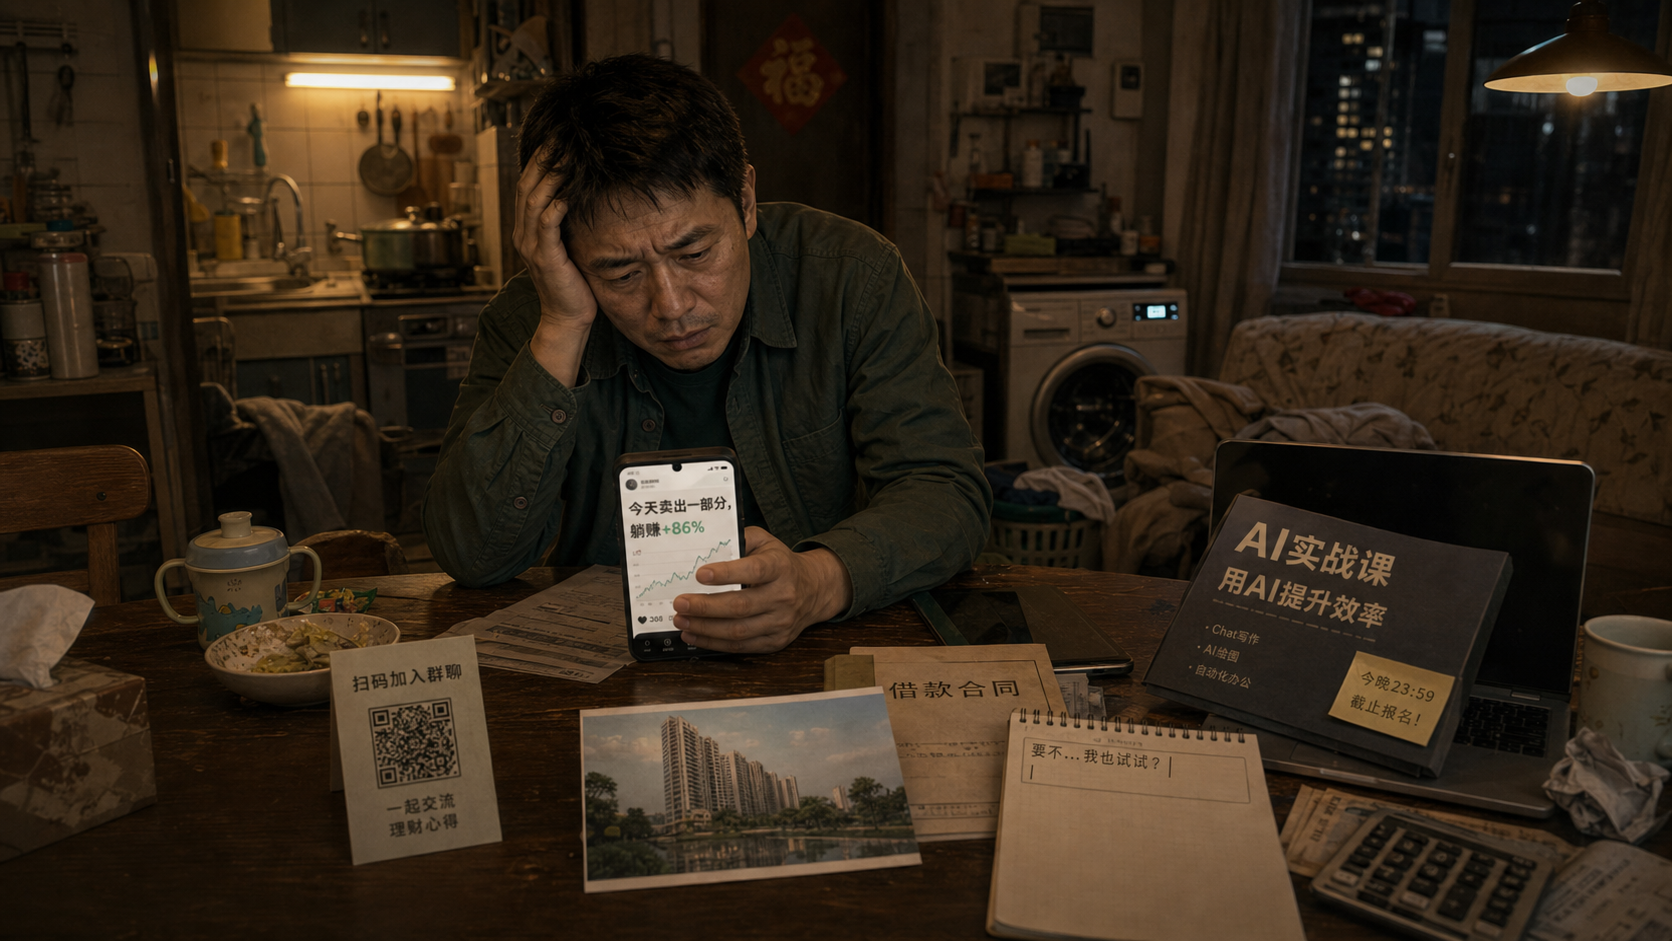
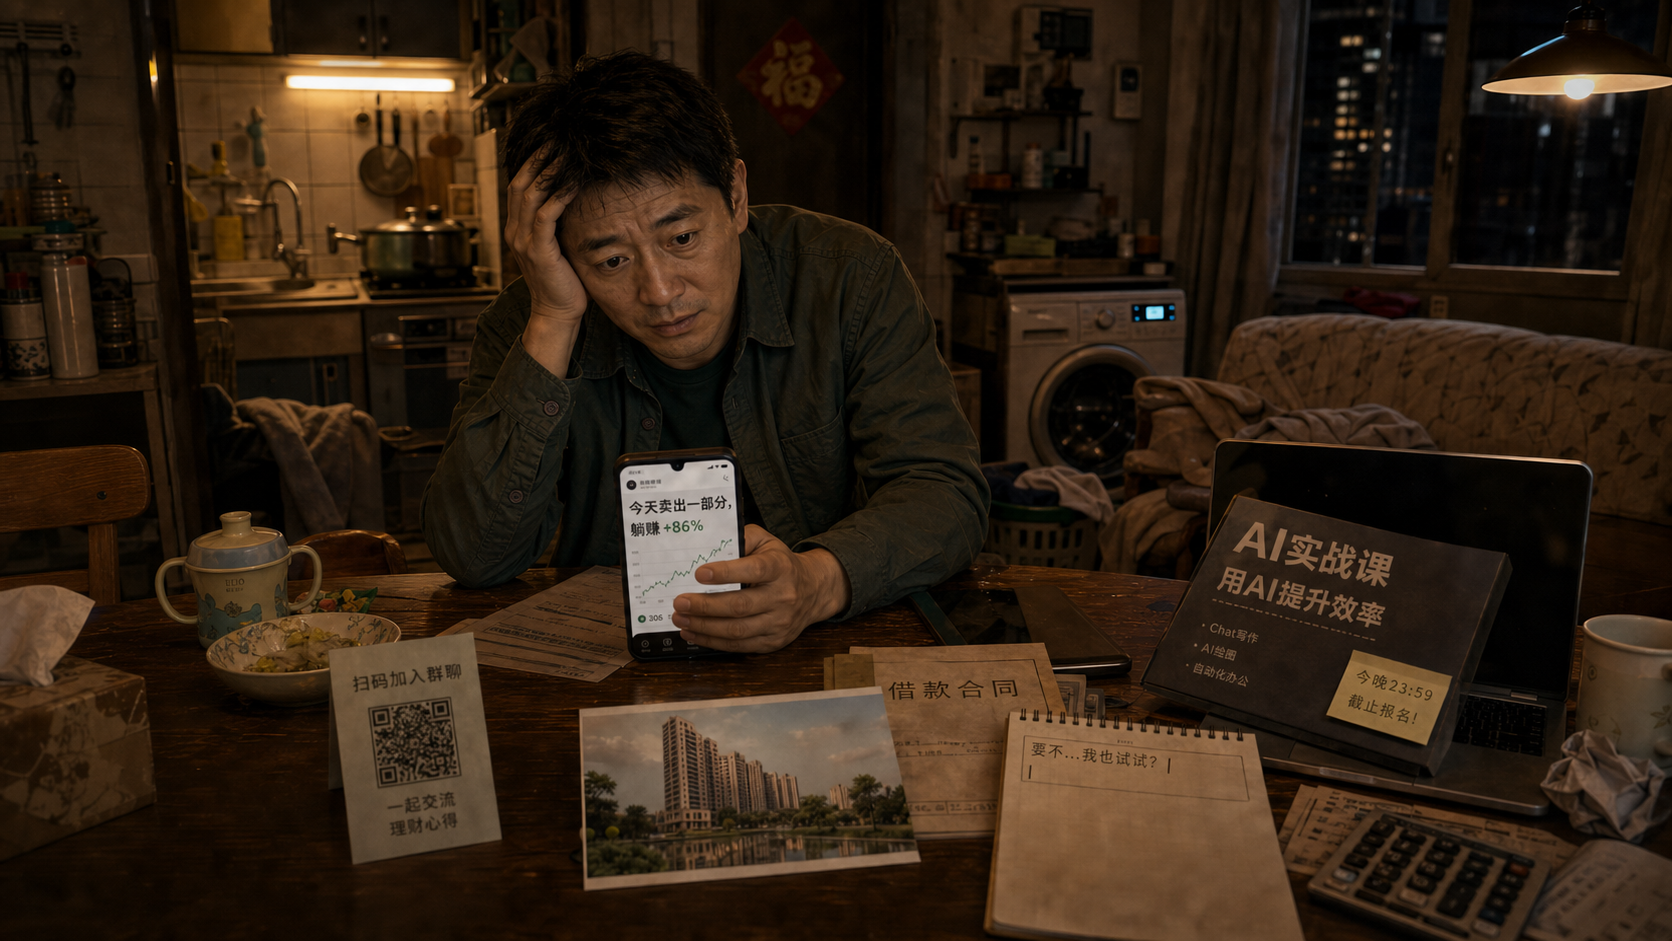
Polish social level progress feedback

diff --git a/src/game/scenes/socialScene.ts b/src/game/scenes/socialScene.ts
@@ -69,25 +69,25 @@ export class SocialScene extends Phaser.Scene {
     const panel = this.add.graphics().setDepth(35);
     panel.fillStyle(0x17261f, 0.88);
     panel.lineStyle(2, 0xf3c45b, 0.38);
-    panel.fillRoundedRect(72, 132, 458, 158, 10);
-    panel.strokeRoundedRect(72, 132, 458, 158, 10);
+    panel.fillRoundedRect(760, 104, 420, 132, 10);
+    panel.strokeRoundedRect(760, 104, 420, 132, 10);
 
-    this.add.text(100, 154, "凌晨刷到第一条", {
+    this.add.text(786, 126, "凌晨刷到第一条", {
       color: "#f3c45b",
       fontFamily: '"PingFang SC", "Microsoft YaHei", sans-serif',
       fontSize: "22px",
       fontStyle: "bold"
     }).setDepth(36);
-    this.add.text(100, 190, this.socialData.scene.name, {
+    this.add.text(786, 160, this.socialData.scene.name, {
       color: "#fff7df",
       fontFamily: '"PingFang SC", "Microsoft YaHei", sans-serif',
       fontSize: "38px",
       fontStyle: "bold"
     }).setDepth(36);
-    this.add.text(100, 240, "开始后，把高光里没拍进去的成本找出来。", {
+    this.add.text(786, 208, "开始后，把高光里没拍进去的成本找出来。", {
       color: "#dce8dc",
       fontFamily: '"PingFang SC", "Microsoft YaHei", sans-serif',
-      fontSize: "19px"
+      fontSize: "18px"
     }).setDepth(36);
   }
 
@@ -154,79 +154,117 @@ export class SocialScene extends Phaser.Scene {
     if (!hotspot) return;
 
     const rect = this.getHotspotRect(hotspot);
-    const kind = hotspot.animationKind;
-    if (kind === "scratch" || kind === "ticket") this.addScratchEffect(rect);
-    else if (kind === "photo") this.addPhotoEffect(rect, hotspot.evidenceId);
-    else if (kind === "phone") this.addPhoneEffect(rect);
-    else if (kind === "bottle") this.addBottleEffect(rect);
-    else this.addNoteEffect(rect, hotspot.evidenceId);
+    if (hotspot.evidenceId === "cropped_profit_screenshot") this.addProfitEffect(rect);
+    else if (hotspot.evidenceId === "humblebrag_group_qr") this.addQrEffect(rect);
+    else if (hotspot.evidenceId === "home_photo_loan_folder") this.addLoanEffect(rect);
+    else if (hotspot.evidenceId === "ai_course_deadline") this.addDeadlineEffect(rect);
+    else if (hotspot.evidenceId === "unsent_reply_draft") this.addDraftEffect(rect);
   }
 
-  private addScratchEffect(rect: { x: number; y: number; width: number; height: number }): void {
-    const line = this.add.graphics().setDepth(52);
-    line.lineStyle(5, 0xfff0b8, 0.78);
-    line.beginPath();
-    line.moveTo(rect.x - rect.width * 0.34, rect.y + rect.height * 0.08);
-    line.lineTo(rect.x + rect.width * 0.32, rect.y - rect.height * 0.12);
-    line.strokePath();
-    this.tweens.add({ targets: line, alpha: 0.18, duration: 100, yoyo: true, repeat: 5, ease: "Sine.inOut" });
-    this.tweens.add({ targets: line, alpha: 0, duration: 180, delay: 620 });
+  private addProfitEffect(rect: { x: number; y: number; width: number; height: number }): void {
+    const screen = this.add.graphics().setDepth(52);
+    screen.lineStyle(2, 0xf3c45b, 0.82);
+    screen.strokeRoundedRect(rect.x - rect.width * 0.32, rect.y - rect.height * 0.35, rect.width * 0.64, rect.height * 0.7, 6);
+
+    const chart = this.add.graphics().setDepth(53);
+    chart.lineStyle(3, 0x87c779, 0.88);
+    chart.beginPath();
+    chart.moveTo(rect.x - rect.width * 0.22, rect.y + rect.height * 0.15);
+    chart.lineTo(rect.x - rect.width * 0.08, rect.y + rect.height * 0.05);
+    chart.lineTo(rect.x + rect.width * 0.05, rect.y + rect.height * 0.08);
+    chart.lineTo(rect.x + rect.width * 0.21, rect.y - rect.height * 0.15);
+    chart.strokePath();
+
+    const cropLine = this.add.graphics().setDepth(54);
+    cropLine.lineStyle(2, 0xfff0b8, 0.78);
+    cropLine.beginPath();
+    cropLine.moveTo(rect.x - rect.width * 0.28, rect.y - rect.height * 0.04);
+    cropLine.lineTo(rect.x + rect.width * 0.28, rect.y - rect.height * 0.04);
+    cropLine.strokePath();
+
+    this.tweens.add({ targets: chart, alpha: 0.2, y: -8, duration: 130, yoyo: true, repeat: 3, ease: "Sine.inOut" });
+    this.tweens.add({ targets: [screen, chart, cropLine], alpha: 0, duration: 240, delay: 560, ease: "Cubic.out" });
   }
 
-  private addPhotoEffect(rect: { x: number; y: number; width: number; height: number }, evidenceId?: string): void {
+  private addQrEffect(rect: { x: number; y: number; width: number; height: number }): void {
     const frame = this.add.graphics().setDepth(52);
-    frame.lineStyle(3, evidenceId === "max_prize_stand" ? 0xf3c45b : 0xfff0b8, 0.86);
-    frame.strokeRoundedRect(rect.x - rect.width / 2, rect.y - rect.height / 2, rect.width, rect.height, 8);
+    frame.lineStyle(2, 0xf3c45b, 0.82);
+    frame.strokeRoundedRect(rect.x - rect.width * 0.36, rect.y - rect.height * 0.35, rect.width * 0.72, rect.height * 0.7, 6);
 
-    const sweep = this.add.graphics().setDepth(53);
-    sweep.fillStyle(evidenceId === "max_prize_stand" ? 0xf3c45b : 0xffffff, 0.24);
-    sweep.fillRoundedRect(rect.x - rect.width * 0.5, rect.y - rect.height * 0.34, rect.width * 0.22, rect.height * 0.68, 4);
-    this.tweens.add({ targets: sweep, x: rect.width * 0.72, alpha: 0.04, duration: 520, ease: "Cubic.out" });
-
-    if (evidenceId === "max_prize_stand") {
-      this.addPrizeSparkles(rect);
-    } else {
-      this.addCornerTicks(rect, 0xfff0b8);
+    for (let index = 0; index < 10; index += 1) {
+      const bit = this.add.graphics().setDepth(53);
+      const column = index % 5;
+      const row = Math.floor(index / 5);
+      bit.fillStyle(index % 2 === 0 ? 0xfff0b8 : 0x87c779, 0.75);
+      bit.fillRect(rect.x - rect.width * 0.22 + column * rect.width * 0.09, rect.y - rect.height * 0.12 + row * rect.height * 0.13, 5, 5);
+      this.tweens.add({ targets: bit, alpha: 0, duration: 360, delay: 70 * index, ease: "Cubic.out" });
     }
 
-    this.tweens.add({ targets: frame, alpha: 0, scaleX: 1.08, scaleY: 1.08, duration: 620, ease: "Cubic.out" });
-    this.tweens.add({ targets: sweep, alpha: 0, duration: 120, delay: 520 });
+    this.tweens.add({ targets: frame, alpha: 0, scaleX: 1.08, scaleY: 1.08, duration: 680, ease: "Cubic.out" });
   }
 
-  private addPhoneEffect(rect: { x: number; y: number; width: number; height: number }): void {
-    const pulse = this.add.graphics().setDepth(52);
-    pulse.fillStyle(0xf3c45b, 0.72);
-    pulse.fillCircle(rect.x, rect.y, 8);
-    this.tweens.add({ targets: pulse, x: 7, duration: 70, yoyo: true, repeat: 5, ease: "Sine.inOut" });
-    this.tweens.add({ targets: pulse, alpha: 0, scale: 1.45, duration: 220, delay: 520 });
+  private addLoanEffect(rect: { x: number; y: number; width: number; height: number }): void {
+    const photoFrame = this.add.graphics().setDepth(52);
+    photoFrame.lineStyle(3, 0xfff0b8, 0.82);
+    photoFrame.strokeRoundedRect(rect.x - rect.width * 0.48, rect.y - rect.height * 0.34, rect.width * 0.46, rect.height * 0.68, 5);
+
+    const contractFrame = this.add.graphics().setDepth(53);
+    contractFrame.lineStyle(3, 0xf3c45b, 0.82);
+    contractFrame.strokeRoundedRect(rect.x - rect.width * 0.02, rect.y - rect.height * 0.36, rect.width * 0.46, rect.height * 0.7, 5);
+
+    const underline = this.add.graphics().setDepth(54);
+    underline.lineStyle(4, 0xd35a36, 0.72);
+    underline.beginPath();
+    underline.moveTo(rect.x + rect.width * 0.05, rect.y - rect.height * 0.02);
+    underline.lineTo(rect.x + rect.width * 0.34, rect.y - rect.height * 0.02);
+    underline.strokePath();
+
+    this.tweens.add({ targets: underline, alpha: 0.1, duration: 120, yoyo: true, repeat: 4, ease: "Sine.inOut" });
+    this.tweens.add({ targets: [photoFrame, contractFrame, underline], alpha: 0, duration: 260, delay: 620, ease: "Cubic.out" });
   }
 
-  private addBottleEffect(rect: { x: number; y: number; width: number; height: number }): void {
-    const ring = this.add.graphics().setDepth(52);
-    ring.lineStyle(4, 0x95d493, 0.76);
-    ring.strokeEllipse(rect.x, rect.y, rect.width * 0.8, rect.height * 0.7);
-    this.tweens.add({ targets: ring, alpha: 0, scaleX: 1.25, scaleY: 1.18, duration: 560, ease: "Cubic.out" });
-  }
-
-  private addNoteEffect(rect: { x: number; y: number; width: number; height: number }, evidenceId?: string): void {
+  private addDeadlineEffect(rect: { x: number; y: number; width: number; height: number }): void {
     const glow = this.add.graphics().setDepth(52);
     glow.lineStyle(3, 0xf3c45b, 0.78);
     glow.strokeRoundedRect(rect.x - rect.width / 2, rect.y - rect.height / 2, rect.width, rect.height, 7);
 
     const scan = this.add.graphics().setDepth(53);
-    scan.lineStyle(evidenceId === "payment_addon_prompt" ? 5 : 7, 0xfff0b8, 0.76);
+    scan.lineStyle(5, 0xfff0b8, 0.76);
     scan.beginPath();
-    scan.moveTo(rect.x - rect.width * 0.36, rect.y - rect.height * 0.12);
-    scan.lineTo(rect.x + rect.width * 0.34, rect.y - rect.height * 0.12);
+    scan.moveTo(rect.x - rect.width * 0.24, rect.y + rect.height * 0.2);
+    scan.lineTo(rect.x + rect.width * 0.34, rect.y + rect.height * 0.2);
     scan.strokePath();
 
-    const dot = this.add.graphics().setDepth(54);
-    dot.fillStyle(0xf3c45b, 0.86);
-    dot.fillCircle(rect.x + rect.width * 0.28, rect.y + rect.height * 0.24, 4);
+    const tick = this.add.text(rect.x + rect.width * 0.27, rect.y + rect.height * 0.16, "23:59", {
+      color: "#fff0b8",
+      fontFamily: '"PingFang SC", "Microsoft YaHei", sans-serif',
+      fontSize: "13px",
+      fontStyle: "bold"
+    }).setOrigin(0.5).setDepth(54);
 
     this.tweens.add({ targets: glow, alpha: 0.18, scaleX: 1.08, scaleY: 1.08, duration: 620, ease: "Cubic.out" });
-    this.tweens.add({ targets: scan, y: rect.height * 0.34, alpha: 0.08, duration: 520, ease: "Cubic.out" });
-    this.tweens.add({ targets: dot, alpha: 0, scale: 2.2, duration: 420, ease: "Cubic.out" });
+    this.tweens.add({ targets: scan, alpha: 0.08, duration: 520, ease: "Cubic.out" });
+    this.tweens.add({ targets: tick, alpha: 0, scale: 1.18, duration: 420, delay: 260, ease: "Cubic.out" });
+  }
+
+  private addDraftEffect(rect: { x: number; y: number; width: number; height: number }): void {
+    const input = this.add.graphics().setDepth(52);
+    input.lineStyle(3, 0xf3c45b, 0.78);
+    input.strokeRoundedRect(rect.x - rect.width * 0.42, rect.y - rect.height * 0.28, rect.width * 0.72, rect.height * 0.42, 6);
+
+    const cursor = this.add.graphics().setDepth(53);
+    cursor.lineStyle(3, 0xfff0b8, 0.86);
+    cursor.beginPath();
+    cursor.moveTo(rect.x + rect.width * 0.25, rect.y - rect.height * 0.22);
+    cursor.lineTo(rect.x + rect.width * 0.25, rect.y + rect.height * 0.05);
+    cursor.strokePath();
+
+    const unsent = this.add.graphics().setDepth(54);
+    unsent.lineStyle(2, 0xd35a36, 0.76);
+    unsent.strokeCircle(rect.x + rect.width * 0.34, rect.y - rect.height * 0.2, 6);
+
+    this.tweens.add({ targets: cursor, alpha: 0.08, duration: 120, yoyo: true, repeat: 4, ease: "Stepped" });
+    this.tweens.add({ targets: [input, cursor, unsent], alpha: 0, duration: 220, delay: 620, ease: "Cubic.out" });
   }
 
   private addCornerTicks(rect: { x: number; y: number; width: number; height: number }, color: number): void {

diff --git a/TASK_STATE.md b/TASK_STATE.md
@@ -142,7 +142,10 @@ The second level is now wired as a playable Phaser flow and has been rebuilt wit
 - Third level QA risk: progress states are improved but still use local compositing from generated full-scene variants rather than clean transparent character source layers. Treat them as a playable improvement, not the final layered production pipeline.
 - Fourth level progress: replaced the old `temple` placeholder with playable `social` / `小红薯暴击夜`, using apartment late-night bitmap art, 5 embedded social-comparison clues, a dedicated Phaser scene, route from the convenience completion button, source-pixel hotspot calibration, and Playwright coverage.
 - Fourth level QA note: the first social slice uses concrete clue bodies instead of pure text labels: cropped profit phone, social group QR card, new-home photo plus loan contract, AI course deadline laptop, and an unsent reply draft.
-- Fourth level QA risk: `social-progress-0..5` currently share the same accepted base plate. The level is playable and calibrated, but a production art pass still needs fixed-layout progress variants or layered protagonist/proxy assets before final approval.
+- Fourth level QA finding resolved: `social-progress-0..5` are now distinct same-layout raster states. Zhou Qiming moves from collapsed doomscrolling to calmer self-awareness while all five clue bodies remain visible in pre-completion states.
+- Fourth level QA finding resolved: social hit feedback now uses clue-specific local effects: profit-line crop mark, QR bits, photo/loan split frame, deadline timer flash, and draft cursor pulse instead of inherited generic note/photo sweeps.
+- Fourth level QA finding resolved: the fourth-level scene intro card was moved off Zhou Qiming's face and phone, and Playwright now captures social mid-progress plus mobile-first screenshots.
+- Fourth level QA risk: the progress states are full-scene bitmap states rather than clean transparent character layers. They now match the current second/third-level bitmap-state approach, but the longer-term production pipeline should still move toward layered character/proxy assets.
 - Remaining QA risk: final user visual approval is still needed, but the runtime no longer relies on placeholder SVG/vector-generated rooftop assets.
 
 Second-level optimization plan:
@@ -207,3 +210,4 @@ Second-level optimization plan:
 - After locally redrawing unreasonable third-level clue elements, all `convenience-progress-0..7` rasters were updated from the new base image and `docs/convenience-hotspot-calibration.md` was recalibrated with new source-pixel centers.
 - After adding third-level progress-state composites, `convenience-progress-1..7` now have distinct Zhou Qiming posture/expression states while retaining the accepted clue layout.
 - After adding the playable fourth `social` level, `npm run art:review -- social`, `npm test`, `npm run build`, and `npm run test:e2e` passed; Playwright captured `artifacts/playtest-social-intro.png` and `artifacts/playtest-social-complete.png`.
+- After improving fourth-level progress states and social-specific hit feedback, `npm test`, `npm run build`, and `npm run test:e2e` passed; Playwright captured `artifacts/playtest-social-intro.png`, `artifacts/playtest-social-mid-progress.png`, `artifacts/playtest-social-complete.png`, and `artifacts/playtest-social-mobile-intro.png`.

diff --git a/docs/reviews/2026-05-29-social-image-review.md b/docs/reviews/2026-05-29-social-image-review.md
@@ -21,7 +21,7 @@ Generated: 2026-05-29
 - [x] Camera and main action area are fixed before generation.
 - [x] Foreground, midground, and background all have roles.
 - [x] There is enough believable object density to hide clues.
-- [ ] Main/proxy character has a planned visible state for each progress step.
+- [x] Main/proxy character has a planned visible state for each progress step.
 - [x] Each clue is a concrete object with a reason to exist in the scene.
 - [x] UI copy is player-facing and contains no implementation language.
 
@@ -46,7 +46,7 @@ One tired adult man staring at social feed, no unrelated crowd.
 Required clue objects:
 cropped profit screenshot, group QR card, new-home photo plus loan contract, AI course deadline, unsent reply draft.
 Character/proxy state:
-Needs fixed-camera progress variants in a later art pass; current implementation uses the accepted base plate for all six states.
+Six fixed-camera full-scene progress rasters now move Zhou Qiming from anxious and collapsed to calmer and self-aware while preserving all clue bodies.
 Lighting/color:
 Warm kitchen light against cool late-night apartment shadows.
 Mobile readability:
@@ -75,7 +75,7 @@ Background objects:
 - [x] Semantic pass confirms every clue has a believable object body.
 - [x] Character pass confirms scale, posture, grounding, and contact shadows.
 - [x] Clarity pass confirms varied clue shapes and mobile readability.
-- [ ] State pass keeps camera/props fixed across progress variants.
+- [x] State pass keeps camera/props fixed across progress variants.
 - [x] Calibration pass records source-pixel centers after final raster freeze.
 
 ## Reference Images
@@ -121,7 +121,7 @@ Background objects:
 
 - [x] Character scale matches nearby people and props.
 - [x] Pose, grounding, contact shadow, and light direction are plausible.
-- [ ] All progress states show readable body-language or expression changes.
+- [x] All progress states show readable body-language or expression changes.
 - [x] No pasted crop, green fringe, contact-sheet residue, or scene cutout remains.
 
 ### Clue Gate
@@ -148,9 +148,9 @@ Background objects:
 ### Screenshot Gate
 
 - [x] Captured progress-0 screenshot.
-- [ ] Captured at least one mid-progress screenshot.
+- [x] Captured at least one mid-progress screenshot.
 - [x] Captured completion screenshot.
-- [ ] Captured mobile first-screen screenshot.
+- [x] Captured mobile first-screen screenshot.
 - [x] Manually inspected screenshots in the game shell.
 
 ## Hotspot Calibration
@@ -172,4 +172,4 @@ Record source-pixel centers before converting to config percentages.
 - [ ] Revise config: update hotspot centers, hit boxes, feedback, or copy.
 - [ ] Blocked: needs product/design decision.
 
-Residual risk: this is a playable fourth-level slice, but the six progress rasters currently share the same accepted base plate. A production art pass should create fixed-layout progress variants or true layered protagonist/proxy assets before this level is treated as final art.
+Residual risk: the six social progress states are now distinct and playable, but they are still same-layout full-scene raster states rather than clean transparent character layers. Treat this as matching the current second/third-level bitmap-state approach, not the final long-term layered asset pipeline.
